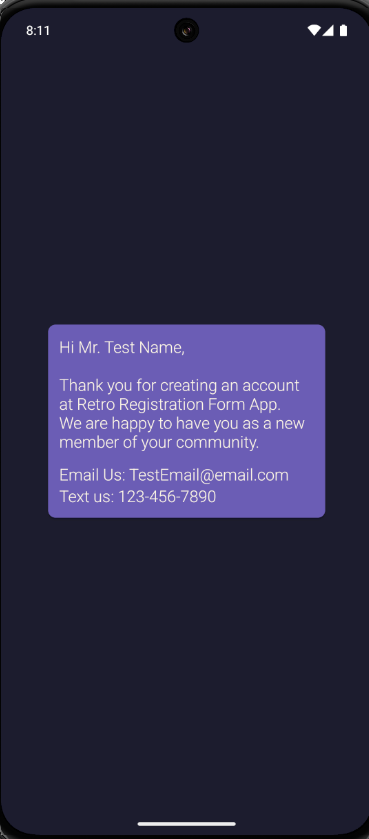
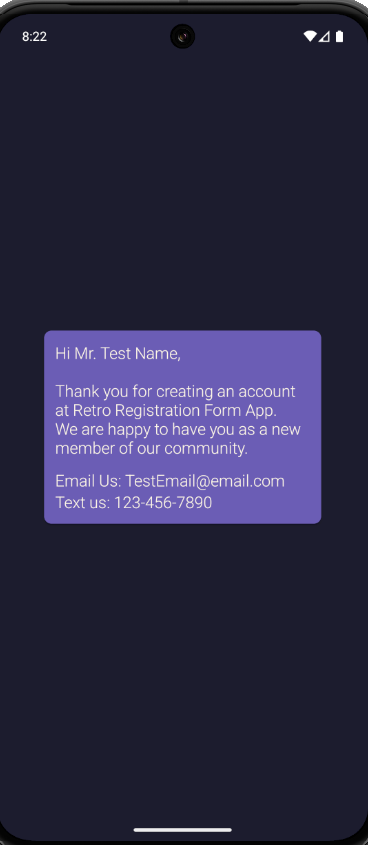
Added README.md

diff --git a/app/src/main/java/com/dzl/registrationform/SummaryActivity.kt b/app/src/main/java/com/dzl/registrationform/SummaryActivity.kt
@@ -87,7 +87,7 @@ class SummaryActivity : AppCompatActivity() {
             Hi ${returnPrefixTitle()}${intentManager.firstName} ${intentManager.lastName}${returnSuffixTitle()}, 
             
             Thank you for creating an account at Retro Registration Form App. 
-            We are happy to have you as a new member of your community.
+            We are happy to have you as a new member of our community.
         """.trimIndent()
 
         binding.textViewSummaryFirstLastName.text = summary
